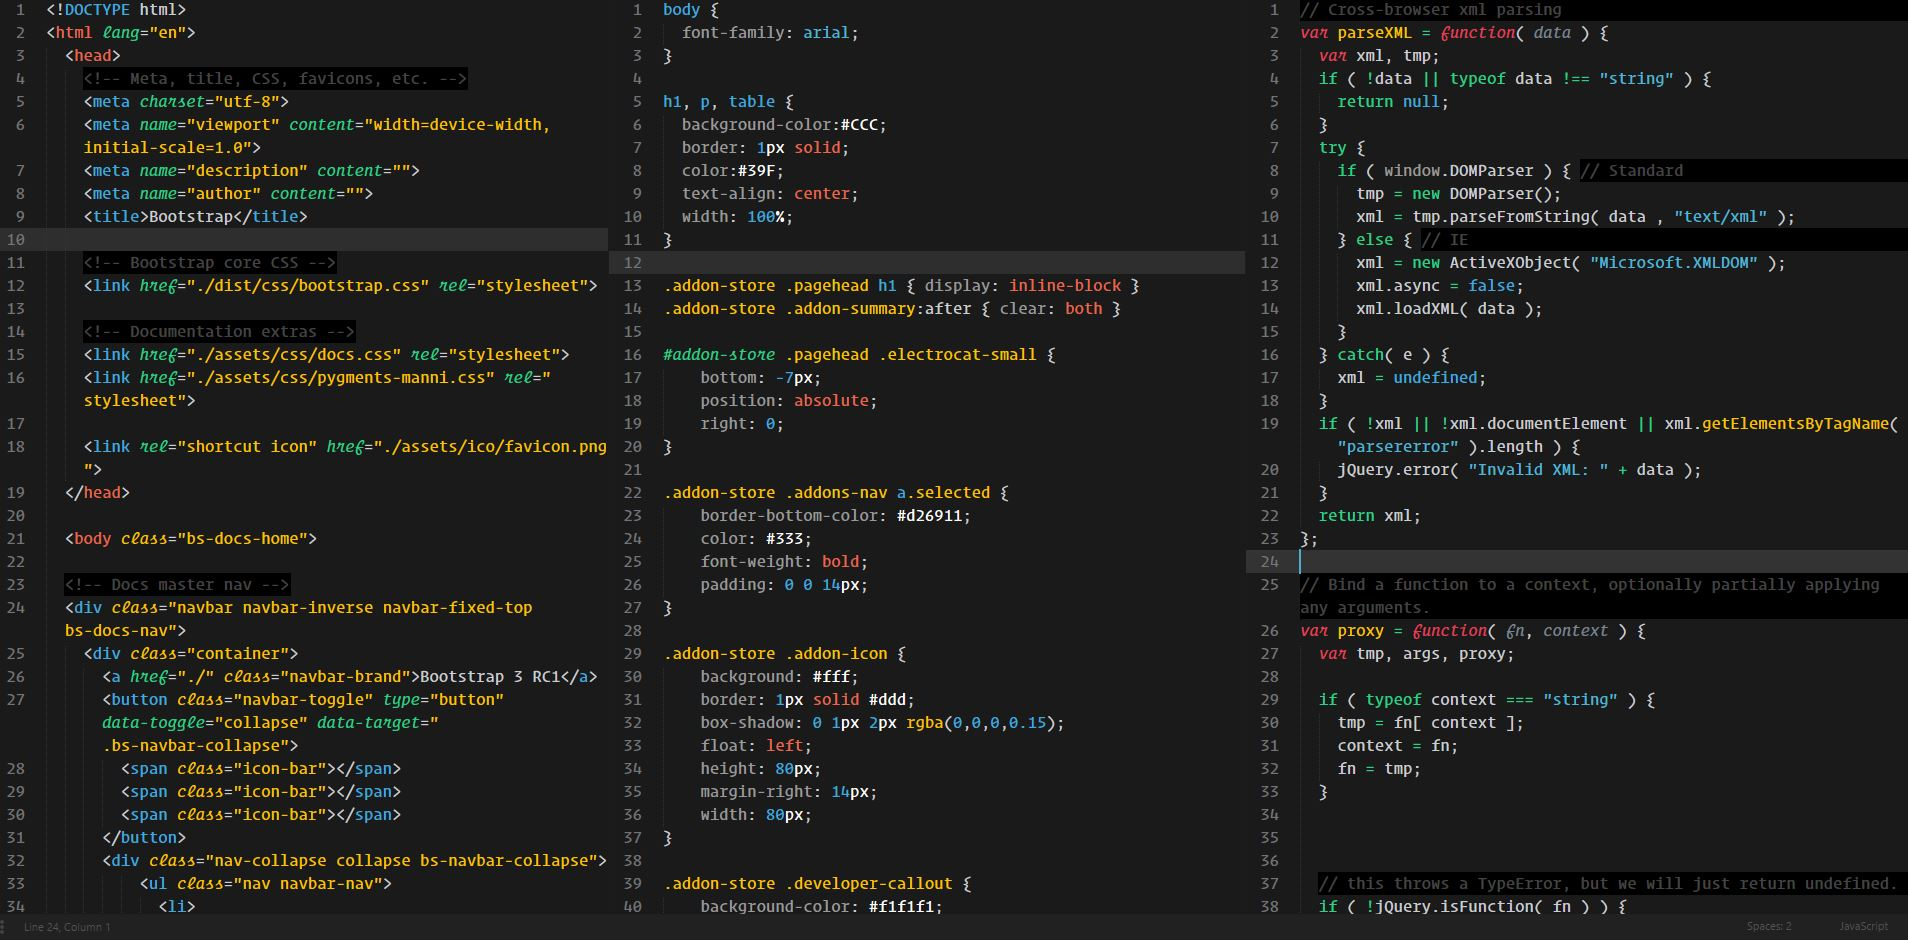
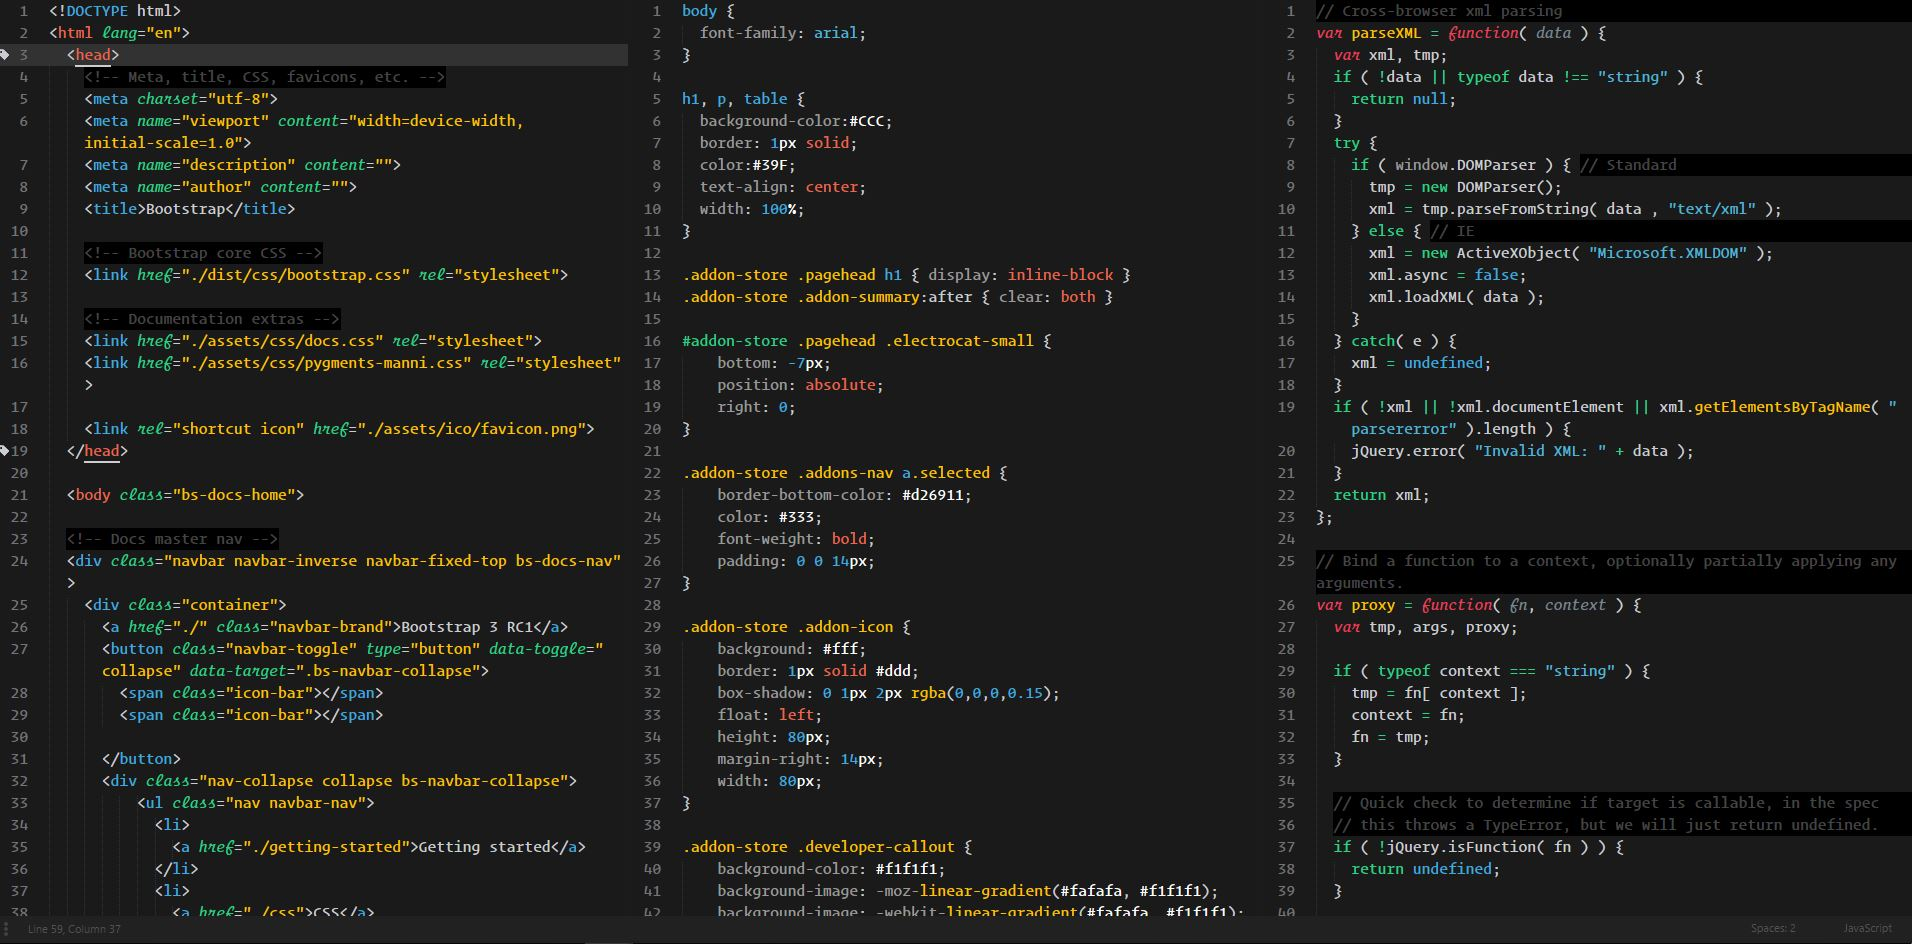
Fixed HTML tag color, improved color consistency, updated screenshot

diff --git a/README.md b/README.md
@@ -15,10 +15,3 @@ A scope-oriented theme, with focus on Front End Development triad (HTML-CSS-JS).
 ## Screenshot ##
 
 ![Screenshot](https://raw.githubusercontent.com/bertolinimarco/Seth-Color-Scheme/master/screenshot.jpg)
-
-## Credits
-
-This theme is based on the following awesome projects:
-
-* [Seti UX](https://github.com/ctf0/Seti_UX) _(General inspiration)_
-* [Theme - Brogrammer](https://github.com/kenwheeler/brogrammer-theme) _(Initial color scheme)_
